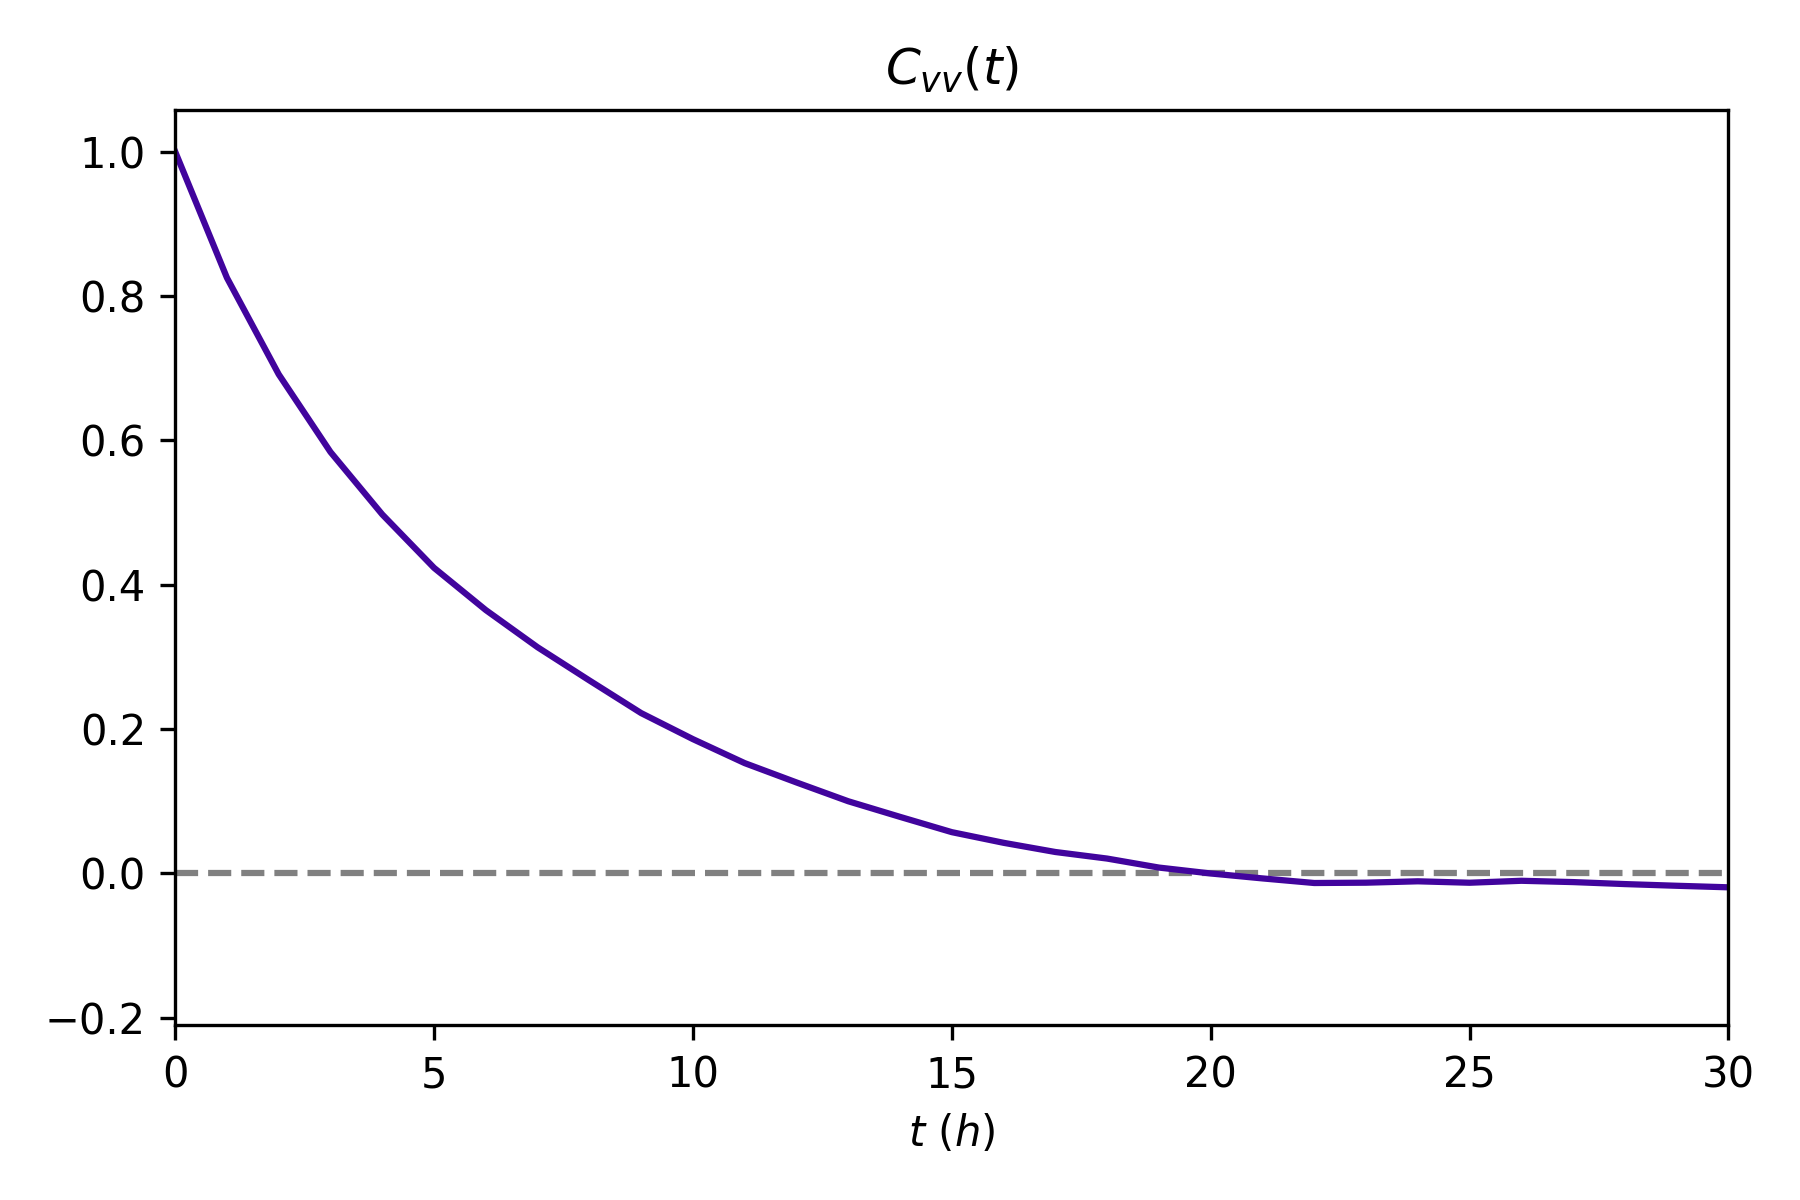
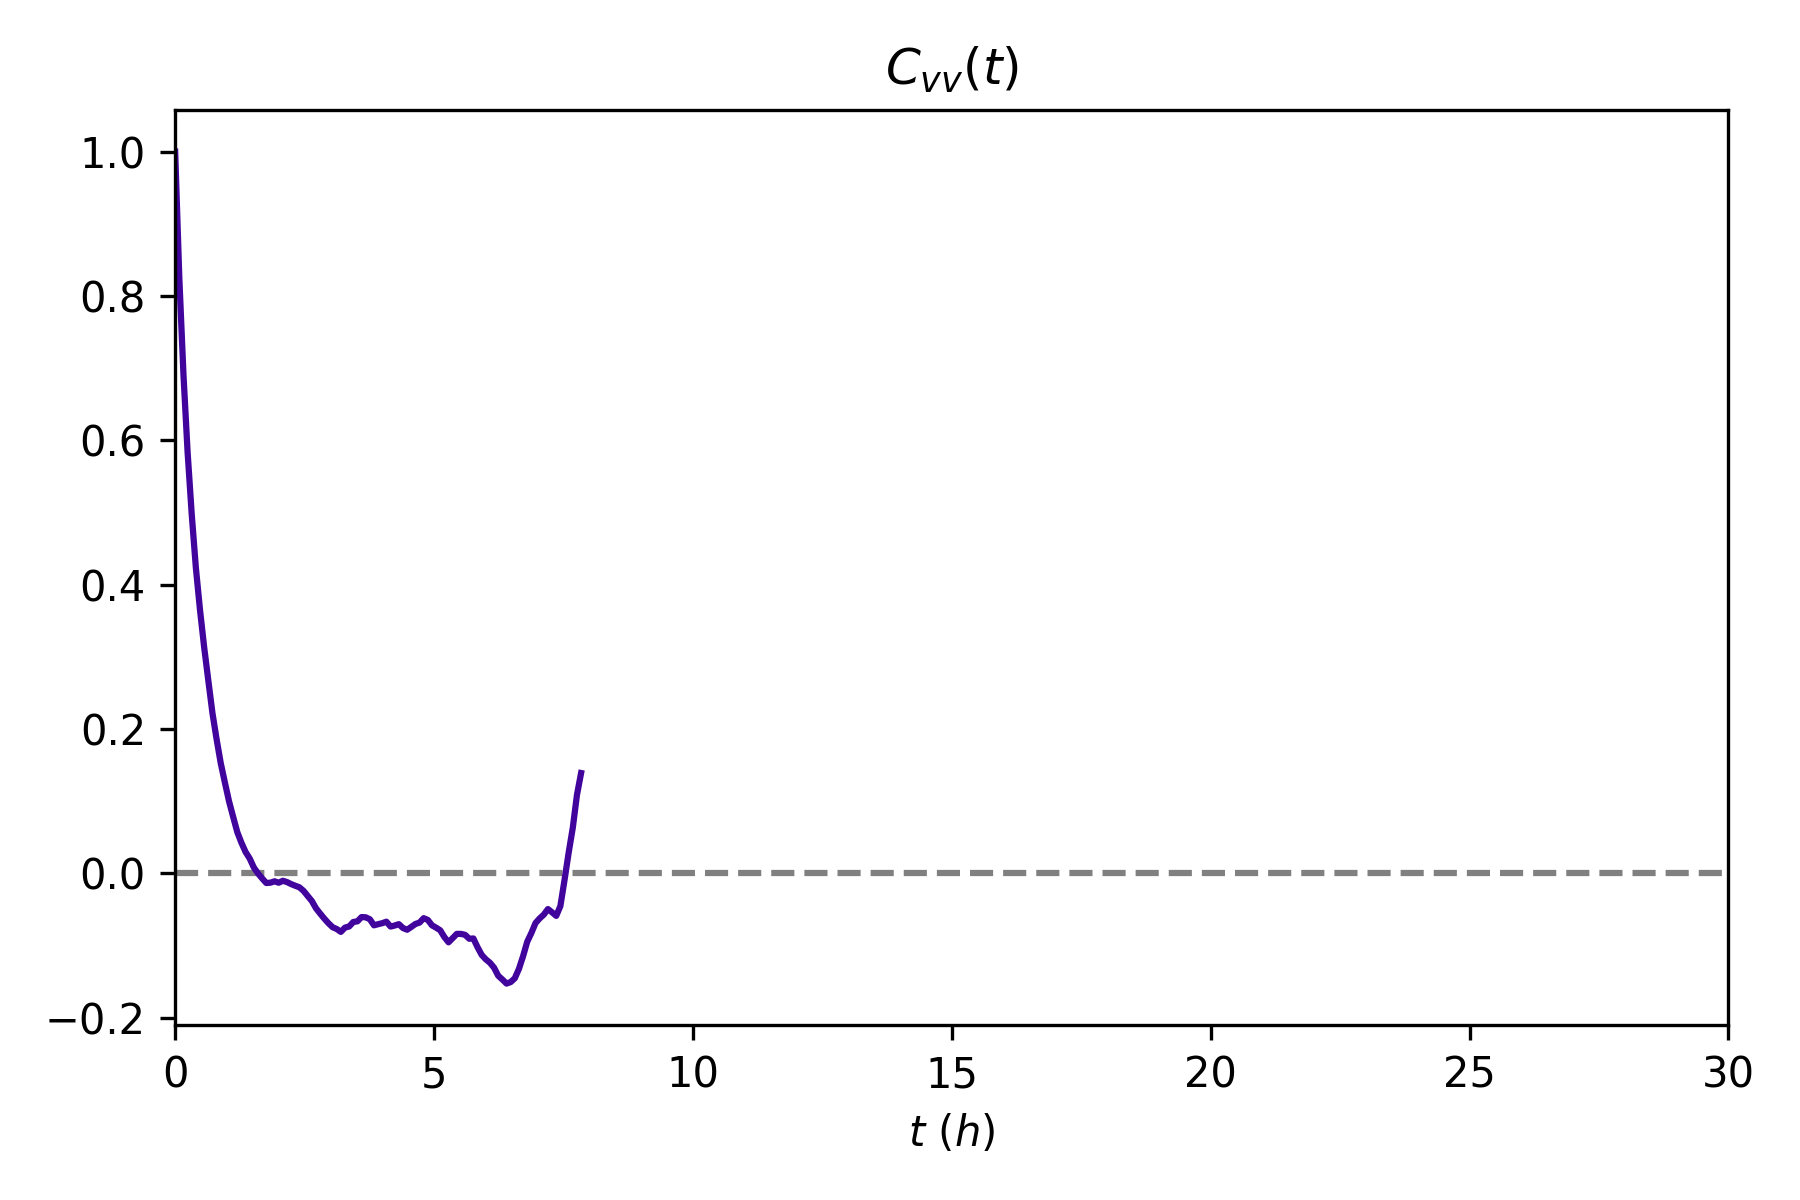
correcting Nframes

diff --git a/analysis/compute_correlations.py b/analysis/compute_correlations.py
@@ -29,7 +29,7 @@ def vm_compute_correlation(path, config_path, args):
 
 
     # Get values from config
-    Nframes = config.get_value(config_file, 'Nframes')
+    Nframes = len(list_vm)
     Lgrid   = config.get_value(config_file, 'Lgrid')
 
     # Get cell properties
